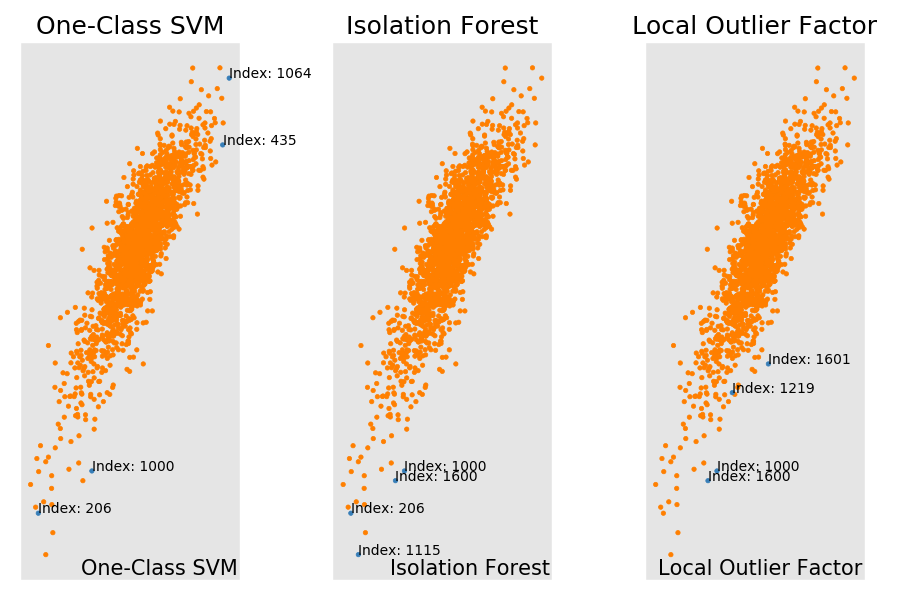
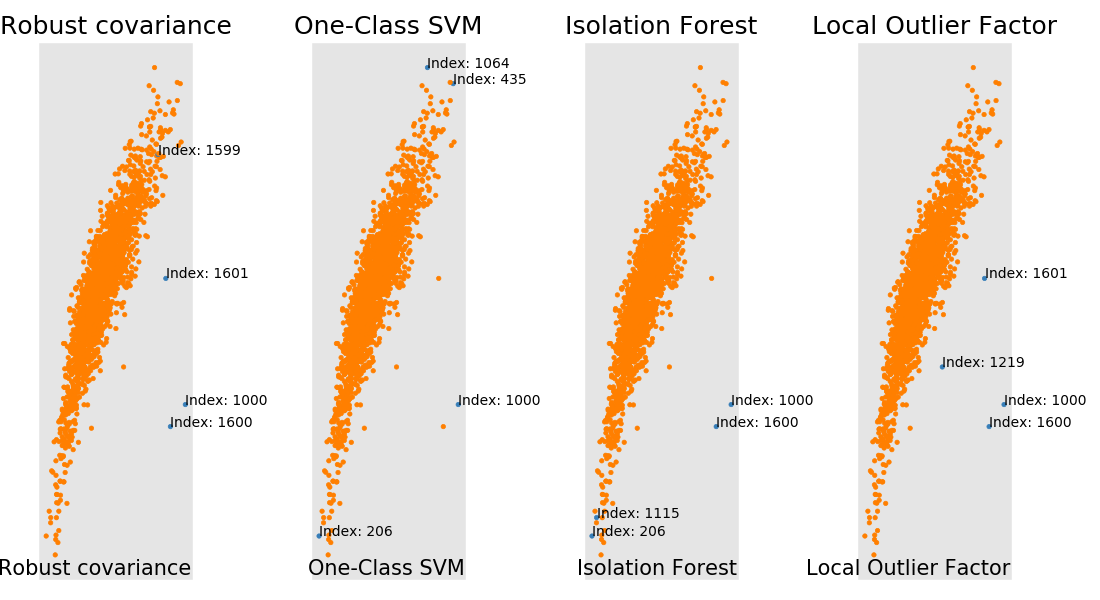
Changes plottet feature dimensions.

diff --git a/anomalyDetector.py b/anomalyDetector.py
@@ -65,7 +65,9 @@ class AnomalyDetector:
     def plot_anomalies(self, name, X, y_pred, plt):
         # Create scatter plot
         colors = np.array(['#377eb8', '#ff7f00'])
-        plt.scatter(X[:, 2], X[:, 3], s=10, color=colors[(y_pred + 1) // 2])
+        dim1 = 1  # first dimension to plot (of the features)
+        dim2 = 2  # second dimension to plot (of the features)
+        plt.scatter(X[:, dim1], X[:, dim2], s=10, color=colors[(y_pred + 1) // 2])
         # plt.xlim(-7, 7)
         # plt.ylim(-7, 7)
         plt.xticks(())
@@ -75,7 +77,7 @@ class AnomalyDetector:
             horizontalalignment='right')
         for i, pred in enumerate(y_pred):
             if (pred < 0):
-                plt.annotate('Index: {}'.format(i), (X[i, 2], X[i, 3]))
+                plt.annotate('Index: {}'.format(i), (X[i, dim1], X[i, dim2]))
 
     def print_anomalies(self, name, y_pred):
         # Print to console
